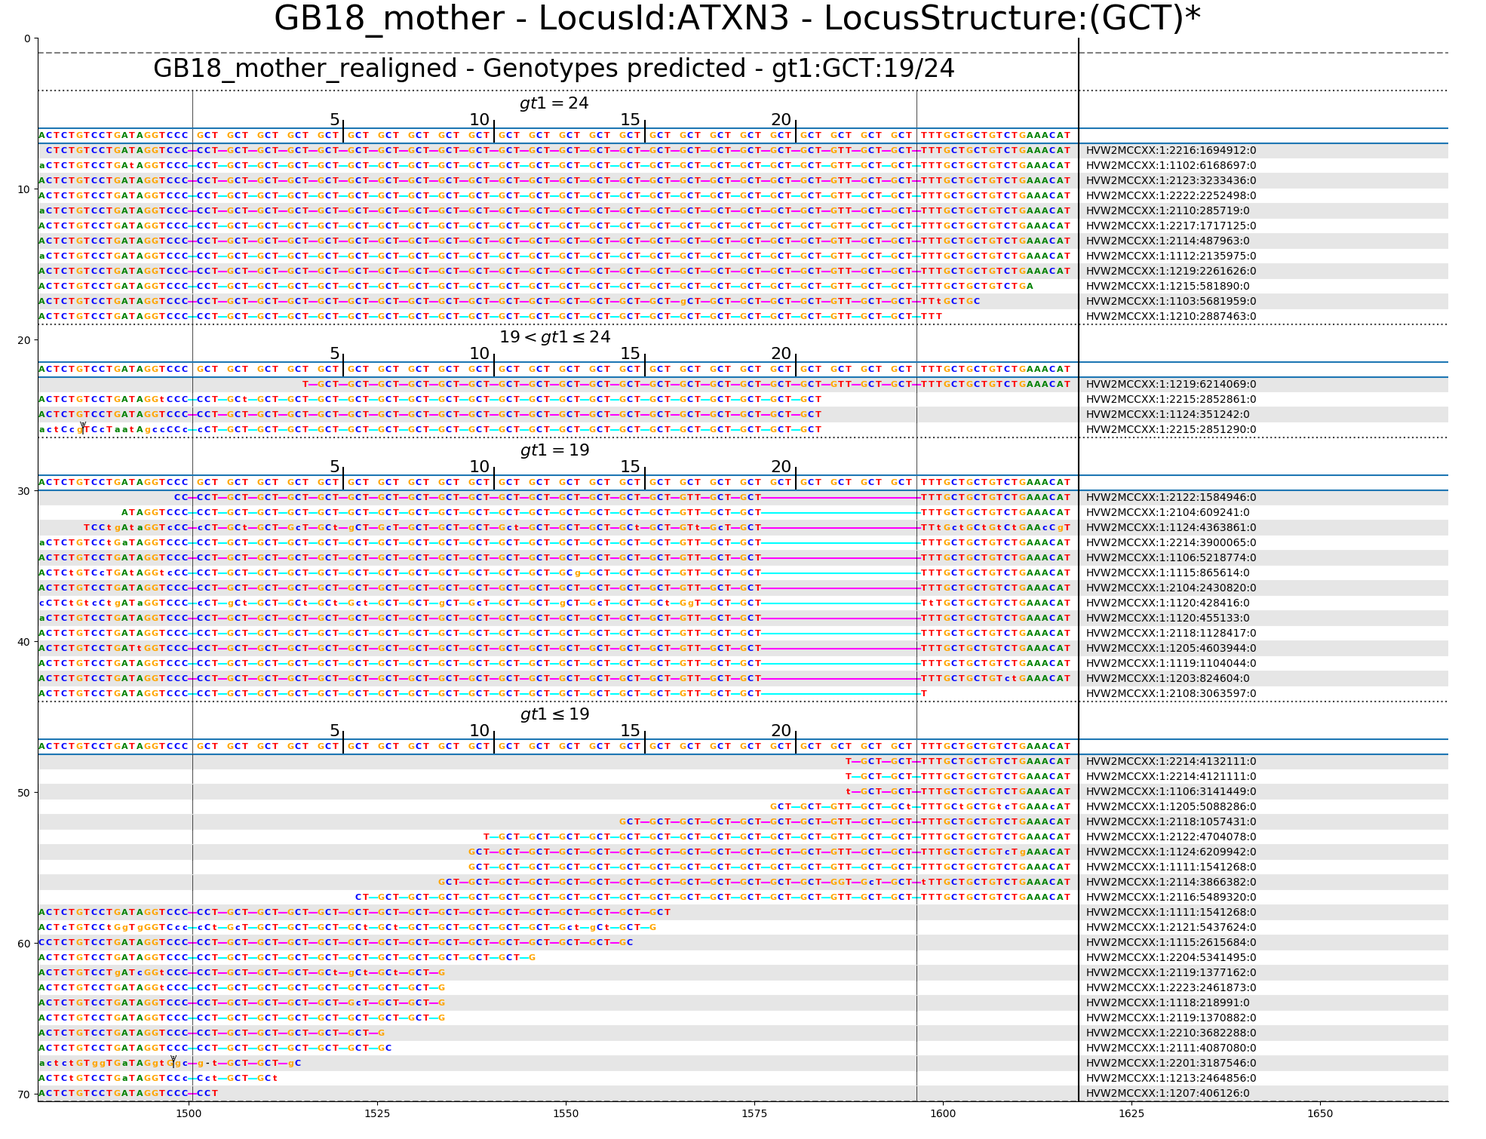
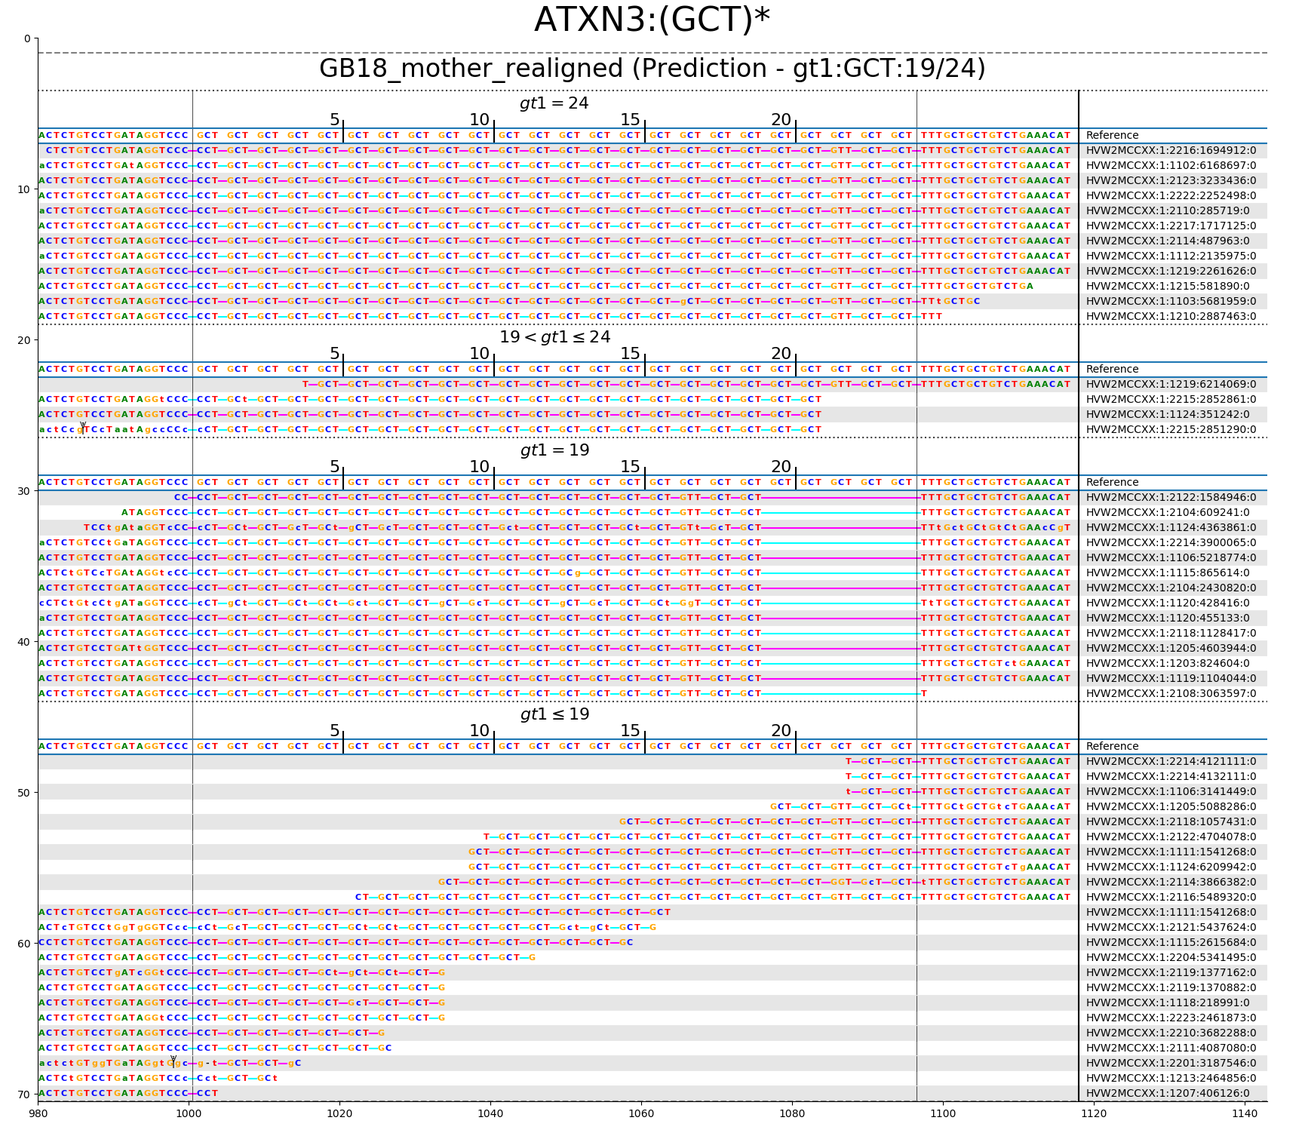
Update output file names and bugfix in reading genotype, graphics update

diff --git a/GraphAlignmentViewer.py b/GraphAlignmentViewer.py
@@ -381,7 +381,7 @@ def get_pileup_list(all_sample_read_aligns, sample_names, reference_graph, node_
     return pileup_list
 
 
-def plot_pileup(repeat_id, pileup_list, genotypes, reference_graph, greyscale=False, output_prefix='', title_suffix='', show_read_names=False, show_insertions=False, flank_clip_size=-1, dpi=100, pdf=False):
+def plot_pileup(repeat_id, pileup_list, genotypes, reference_graph, greyscale=False, output_name='', title_prefix='', show_read_names=False, show_insertions=False, flank_clip_size=-1, dpi=100, pdf=False):
     """Plot read pileups for all samples for give repeat_id
     Args:
         repeat_id: Repeat ID for which to plot pileup
@@ -390,7 +390,7 @@ def plot_pileup(repeat_id, pileup_list, genotypes, reference_graph, greyscale=Fa
         reference_graph: ReferenceGraph for locus
         greyscale: (optional): Set True for greyscale scheme. Default: color(IGV scheme).
         output_prefix: (optional) Default ''
-        title_suffix: String to be added as a suffix to the title
+        title_prefix: String to be added as a prefix to the title
         show_read_names: Show names of reads alongside the read
         show_insertions: Boolean to show full sequence of insertions
     Outputs:
@@ -409,7 +409,8 @@ def plot_pileup(repeat_id, pileup_list, genotypes, reference_graph, greyscale=Fa
         xoffset = repeat_path.get_alignment_coordinates('N', reference_graph, '%s[1M]' % reference_graph[0].node_id, offset=len(reference_graph[0].seq) - flank_clip_size, show_insertions=show_insertions)[0][0]
         xmax = repeat_path.get_alignment_coordinates('N', reference_graph, '%s[1M]' % reference_graph[-1].node_id, offset=flank_clip_size, show_insertions=show_insertions)[0][0]
     if show_read_names:
-        xlen = xmax + 50 - xoffset
+        read_name_max = max([len(alignment_pileup[0].query_name) for site_pileup in pileup_list for alignment_pileup in site_pileup[2]] + [len("Reference")])
+        xlen = xmax + read_name_max - xoffset
     else:
         xlen = xmax - xoffset
     ylen = 0 
@@ -423,7 +424,10 @@ def plot_pileup(repeat_id, pileup_list, genotypes, reference_graph, greyscale=Fa
     margin = 0.5
     fig = plt.figure(figsize=(xlen * xscale + 2 *
                                 margin,  ylen * yscale + 2 * margin))
-    fig.suptitle("%s - LocusId:%s - LocusStructure:%s %s" % (os.path.basename(output_prefix), repeat_id, reference_graph.locus_structure, title_suffix), fontsize=4 * fontsize, y=1 - margin / (ylen * yscale + 2 * margin), va='bottom')
+    if title_prefix == "":
+        fig.suptitle("%s:%s" % (repeat_id, reference_graph.locus_structure), fontsize=4 * fontsize, y=1 - margin / (ylen * yscale + 2 * margin), va='bottom')
+    else:
+        fig.suptitle("%s %s:%s" % (title_prefix, repeat_id, reference_graph.locus_structure), fontsize=4 * fontsize, y=1 - margin / (ylen * yscale + 2 * margin), va='bottom')
     ax = fig.add_axes([margin / (xlen * xscale + 1), margin / (ylen * yscale + 1),
                        xlen * xscale / (xlen * xscale + 2 * margin), ylen * yscale / (ylen * yscale + 2 * margin)])
     ax.set_xlim(xoffset, xoffset + xlen)
@@ -453,10 +457,11 @@ def plot_pileup(repeat_id, pileup_list, genotypes, reference_graph, greyscale=Fa
         if gtnone:
             sample_str = site_pileup[0]
         else:
-            sample_str = site_pileup[0] + ' - Genotypes predicted - ' + '; '.join(gt_list)
-        ax.text((xoffset + xmax) / 2, ypos + 3, sample_str, ha='center',
+            sample_str = site_pileup[0] + ' (Prediction - ' + '; '.join(gt_list) + ')'
+        ax.text((xoffset + xoffset + xlen) / 2, ypos + 3, sample_str, ha='center',
                 va='bottom', fontsize=3 * fontsize)
         ypos += 3
+        sample_start = ypos
         previous_genotype = None
         for alignment_pileup in site_pileup[2]:
             if alignment_pileup[2] != previous_genotype:
@@ -485,6 +490,8 @@ def plot_pileup(repeat_id, pileup_list, genotypes, reference_graph, greyscale=Fa
                         c = basepair_color[position[1].upper()]
                         ax.text(position[0]+ 0.5, ypos + 1, position[1], ha='center',
                                 va='center', fontsize=fontsize, weight='bold', color=c)
+                if show_read_names:
+                    ax.text(xmax + 2, ypos + 1, "Reference", color='k', ha='left', va='center')
                 previous_genotype = alignment_pileup[2]
                 
                 
@@ -542,12 +549,13 @@ def plot_pileup(repeat_id, pileup_list, genotypes, reference_graph, greyscale=Fa
             read_parity = 1 - read_parity
             ypos += 1
         ax.axhline(ypos + 0.5, linestyle='--', c='0.5')
-    if show_read_names:
-        ax.axvline(xmax + 1, color='k')
+        if show_read_names:
+            ax.plot((xmax + 1, xmax + 1), (sample_start + 0.5, ypos + 0.5), color='k')
+            # ax.axvline(xmax + 1, color='k')
     if pdf: 
-        fig.savefig(output_prefix + '.pdf')
+        fig.savefig(output_name + '.pdf')
     else:
-        fig.savefig(output_prefix + '.png', dpi=dpi)
+        fig.savefig(output_name + '.png', dpi=dpi)
     plt.close(fig)
 
 
@@ -572,13 +580,15 @@ def get_args():
     parser.add_argument("--locus_id", dest='locus_id',
                         type=str, help="Comma-separated locus IDs for which to plot pileup. Default: All repeats", default="")
     parser.add_argument("--output_prefix", dest='output_prefix',
-                        type=str, help="Prefix of output file (default: <FILENAME>_<LOCUS_ID> where FILENAME is base filename of READ_ALIGN_FILE/READ_ALIGN_FILE_LIST)", default="")
-    parser.add_argument("--title_suffix", dest='title_suffix',
-                        type=str, help="Suffix text to be appended to title of the plot (default:\"\")", default="")
+                        type=str, help="Prefix of output file. Output filename(s) \"<OUTPUT_PREFIX>_<CHROM>-<START>-<REPEATUNIT>.alignment.png\"(\".pdf\") corresponding to the position of the first repeat unit in the node grouping. If node grouping is \"NONE\" or \"ALL\", then position corresponds to the first repeat unit in the locus. (default: No prefix. Output filename(s) \"<CHROM>-<START>-<REPEATUNIT>.alignment.png\"(\".pdf\"))", default="")
+    parser.add_argument("--output_dir", dest='output_dir',
+                        type=str, help="Output directory (default=Current working directory)", default="")
+    parser.add_argument("--title_prefix", dest='title_prefix',
+                        type=str, help="Prefix text to be appended to title of the plot (default:\"\")", default="")
     parser.add_argument("--reference_fasta", dest='reference_fasta',
                         type=str, help="Fasta file with .fai index for reference sequence. If not provided, flanks are set to 'N'. Default: None", default=None)
     parser.add_argument("--node_grouping", dest='node_grouping',
-                        type=str, help="Comma-separated list of node indices (left flank=0) to group and sort reads by genotype. \"NONE\": sort reads only by position, \"ALL\": group by all repeat nodes from left to right. (default: \"1\" group by leftmost repeat node)", default="1")
+                        type=str, help="Comma-separated list of node indices (left flank=0) to group and sort reads by genotype. \"NONE\": sort reads only by position, \"ALL\": group by all repeat nodes from left to right. (default: create a separate image for each repeat unit)", default="")
     parser.add_argument("--show_read_names", action="store_true",
                         help="Show names of reads")
     parser.add_argument("--show_insertions", action="store_true",
@@ -613,7 +623,7 @@ def get_sample_filepaths(args):
             sample_list = [(sample_name, args.read_align_file, args.gt_file)]
         else:
             sample_list = [(sample_name, args.read_align_file, None)]
-        output_prefix = sample_name
+        # output_prefix = sample_name
     else:
         in_root = os.path.dirname(args.read_align_file_list)
         for l in open(args.read_align_file_list):
@@ -626,14 +636,14 @@ def get_sample_filepaths(args):
             else:
                 sample_list.append((ll[0], os.path.join(
                     in_root, ll[1]), None))
-        output_prefix = os.path.splitext(
-            os.path.basename(args.read_align_file_list))[0]
-    if args.output_prefix != "":
-        output_prefix = args.output_prefix
-        prefix_flag = True
-    else:
-        prefix_flag = False
-    return (sample_list, output_prefix, prefix_flag)
+        # output_prefix = os.path.splitext(
+        #     os.path.basename(args.read_align_file_list))[0]
+    # if args.output_prefix != "":
+    #     output_prefix = args.output_prefix
+    #     prefix_flag = True
+    # else
+    #     prefix_flag = False
+    return (sample_list)#, output_prefix , prefix_flag)
 
 
 def populate_repeat_graphs(specs_path=None, specs_format='v3', reference_fasta=None, flank_size=1000, sample_list=None):
@@ -741,7 +751,11 @@ def get_EH_genotypes(sample_list, file_format='vcf'):
 
 def main():
     args = get_args()
-    (sample_list, output_prefix, prefix_flag) = get_sample_filepaths(args)
+    sample_list = get_sample_filepaths(args)
+    if args.output_prefix == "":
+        output_prefix = ""
+    else:
+        output_prefix = args.output_prefix + '_'
     if args.reference_fasta is None:
         reference_fasta = None
     else:
@@ -764,20 +778,50 @@ def main():
             site_list.add(repeat_id)
 
     for repeat_id in site_list:
-        if args.node_grouping == 'NONE':
-            node_grouping_list = []
-        elif args.node_grouping == 'ALL':
-            node_grouping_list = None
+        if args.node_grouping != "":
+            if args.node_grouping == 'NONE':
+                node_grouping_list = []
+                output_name = ['%s%s-%s.alignment' % (output_prefix, n.reference_region.split('-')[0].replace(':', '-'), n.seq)
+                                 for n in repeat_graphs[repeat_id] if n.is_repeat][0]
+            elif args.node_grouping == 'ALL':
+                node_grouping_list = None
+                output_name = ['%s%s-%s.alignment' % (output_prefix, n.reference_region.split('-')[0].replace(':', '-'), n.seq)
+                                 for n in repeat_graphs[repeat_id] if n.is_repeat][0]
+            else:
+                node_grouping_list = [int(i) for i in args.node_grouping.split(',')]
+                for node_id in node_grouping_list:
+                    if not repeat_graphs[repeat_id][node_id].is_repeat:
+                        raise Exception("node id %s in --node_grouping is not a repeat unit" % node_id)
+                output_name = ['%s%s-%s.alignment' % (output_prefix, n.reference_region.split('-')[0].replace(':', '-'), n.seq)
+                                 for n in repeat_graphs[repeat_id] if n.node_id in node_grouping_list][0]
+            
+            if args.output_dir != "":
+                if not os.path.exists(args.output_dir):
+                    os.makedirs(args.output_dir)
+                output_name = os.path.join(args.output_dir, output_name)
+            pileup_list = get_pileup_list({s: all_sample_read_aligns[s][repeat_id] for s in all_sample_read_aligns},
+                                        [s[0] for s in sample_list], repeat_graphs[repeat_id],
+                                        node_grouping_list=node_grouping_list, show_insertions=args.show_insertions)
+            # if prefix_flag and len(site_list) == 1:
+            plot_pileup(repeat_id, pileup_list, genotypes, repeat_graphs[repeat_id], args.greyscale, output_name, args.title_prefix, args.show_read_names, show_insertions=args.show_insertions, flank_clip_size=args.flank_clip_size, dpi=args.dpi, pdf=args.pdf)
+            # else:
+            #     plot_pileup(repeat_id, pileup_list, genotypes, repeat_graphs[repeat_id],
+            #                 args.greyscale, output_prefix + "_" + repeat_id, args.title_prefix, args.show_read_names, show_insertions=args.show_insertions, flank_clip_size=args.flank_clip_size, dpi=args.dpi, pdf=args.pdf)
         else:
-            node_grouping_list = [int(i) for i in args.node_grouping.split(',')]
-        pileup_list = get_pileup_list({s: all_sample_read_aligns[s][repeat_id] for s in all_sample_read_aligns},
-                                      [s[0] for s in sample_list], repeat_graphs[repeat_id],
-                                      node_grouping_list=node_grouping_list, show_insertions=args.show_insertions)
-        if prefix_flag and len(site_list) == 1:
-            plot_pileup(repeat_id, pileup_list, genotypes, repeat_graphs[repeat_id], args.greyscale, output_prefix, args.title_suffix, args.show_read_names, show_insertions=args.show_insertions, flank_clip_size=args.flank_clip_size, dpi=args.dpi, pdf=args.pdf)
-        else:
-            plot_pileup(repeat_id, pileup_list, genotypes, repeat_graphs[repeat_id],
-                        args.greyscale, output_prefix + "_" + repeat_id, args.title_suffix, args.show_read_names, show_insertions=args.show_insertions, flank_clip_size=args.flank_clip_size, dpi=args.dpi, pdf=args.pdf)
+            for n in repeat_graphs[repeat_id]:
+                if not n.is_repeat:
+                    continue
+                node_grouping_list = [n.node_id]
+                output_name = '%s%s-%s.alignment' % (output_prefix, n.reference_region.split('-')[0].replace(':', '-'), n.seq)
+                if args.output_dir != "":
+                    if not os.path.exists(args.output_dir):
+                        os.makedirs(args.output_dir)
+                    output_name = os.path.join(args.output_dir, output_name)
+                pileup_list = get_pileup_list({s: all_sample_read_aligns[s][repeat_id] for s in all_sample_read_aligns},
+                                            [s[0] for s in sample_list], repeat_graphs[repeat_id],
+                                            node_grouping_list=node_grouping_list, show_insertions=args.show_insertions)
+                plot_pileup(repeat_id, pileup_list, genotypes, repeat_graphs[repeat_id], args.greyscale, output_name, args.title_prefix, args.show_read_names, show_insertions=args.show_insertions, flank_clip_size=args.flank_clip_size, dpi=args.dpi, pdf=args.pdf)
+                
 
 
 if __name__ == '__main__':

diff --git a/ReferenceGraph.py b/ReferenceGraph.py
@@ -22,18 +22,22 @@ class ReferenceGraph(list):
            flank_size: Size of flanking sequences to append to locus. 
         '''
         list.__init__(self)
+        position_list = []
         self.flank_size = flank_size
         if 'TargetRegion' in repeat_spec:
             self.target_region = repeat_spec["TargetRegion"]
         elif 'ReferenceRegion' in repeat_spec:
             if type(repeat_spec["ReferenceRegion"]) == str:
                 self.target_region = repeat_spec["ReferenceRegion"]
+                position_list = [repeat_spec["ReferenceRegion"]]
             else:
                 self.target_region = (repeat_spec["ReferenceRegion"][0].split('-')[0] 
                                       + '-' +repeat_spec["ReferenceRegion"][-1].split('-')[1])
+                position_list = repeat_spec["ReferenceRegion"]
         else:
             self.target_region = (repeat_spec["ReferenceLoci"][0].split('-')[0]
                 + '-' +repeat_spec["ReferenceLoci"][-1].split('-')[1])
+            position_list = repeat_spec["ReferenceLoci"]
         if 'RepeatUnit' in repeat_spec:
             self.repeat_unit = repeat_spec['RepeatUnit']
             self.locus_structure = repeat_spec['RepeatUnit']
@@ -58,7 +62,10 @@ class ReferenceGraph(list):
                 else:
                     node_names = [vid for vid in repeat_spec["VariantId"]]
             else:
-                node_names = [repeat_spec["LocusId"] + '_' + rr for rr in repeat_loci]
+                if len(repeat_loci) > 1:
+                    node_names = [repeat_spec["LocusId"] + '_' + rr for rr in repeat_loci]
+                else:
+                    node_names = [repeat_spec["LocusId"]]
         else:
             self.repeat_id = [s for s in repeat_spec['RepeatIds'] if 'ignore' not in s][0]
             node_names = [s for s in repeat_spec['RepeatIds']]
@@ -71,17 +78,18 @@ class ReferenceGraph(list):
         self.repeat_unit = self.repeat_unit
         self.repeat_id = self.repeat_id
         if reference_fasta is None:
-            self.append(ReferenceNode(node_id, 'N' * self.flank_size, False))
+            self.append(ReferenceNode(node_id, 'N' * self.flank_size, False, "%s:%s-%s" % (self.chrom, self.start - self.flank_size, self.start)))
         else:
-            self.append(ReferenceNode(node_id, reference_fasta.fetch(self.chrom, self.start - self.flank_size, self.start), False))
+            self.append(ReferenceNode(node_id, reference_fasta.fetch(self.chrom, self.start - self.flank_size, self.start), False, "%s:%s-%s" % (self.chrom, self.start - flank_size, self.start)))
         node_id += 1
         if '(' not in self.repeat_unit:
             # Then entire string is a single loop
-            self.append(ReferenceNode(1, self.repeat_unit, True, node_names[node_name_index]))
+            self.append(ReferenceNode(1, self.repeat_unit, True, node_names[node_name_index], "%s:%s-%s" % (self.chrom, self.start, self.end)))
             node_id += 1
             node_name_index += 1
         else:
             repeat_unit_index = 0
+            pos_i = 0
             while repeat_unit_index < len(self.repeat_unit):
                 index2 = repeat_unit_index + 1
                 while index2 < len(self.repeat_unit):
@@ -90,19 +98,24 @@ class ReferenceGraph(list):
                     index2 += 1
                 if self.repeat_unit[repeat_unit_index] == '(':
                     self.append(ReferenceNode(node_id, str(self.repeat_unit[repeat_unit_index + 1:index2]), True,
-                                              node_name=node_names[node_name_index]))
+                                              node_names[node_name_index], position_list[pos_i]))
                     node_name_index += 1
+                    pos_i += 1
                 else:
-                    self.append(ReferenceNode(node_id, str(self.repeat_unit[repeat_unit_index:index2]), False))
+                    start = self.start if (pos_i == 0) else position_list[pos_i - 1].split('-')[1]
+                    end = self.end if (pos_i == len(position_list)) else position_list[pos_i].split('-')[0].split(':')[1]
+                    self.append(ReferenceNode(node_id, str(self.repeat_unit[repeat_unit_index:index2]), False, "%s:%s-%s" % (self.chrom, start, end)))
                 node_id += 1
                 if index2 < len(self.repeat_unit) and self.repeat_unit[index2] == ')':
                     repeat_unit_index = index2 + 1
                 else:
                     repeat_unit_index = index2
         if reference_fasta is None:
-            self.append(ReferenceNode(node_id, 'N' * flank_size, False))
+            self.append(ReferenceNode(node_id, 'N' * flank_size, False, "%s:%s-%s" % (self.chrom, self.end, flank_size)))
         else:
-            self.append(ReferenceNode(node_id, reference_fasta.fetch(self.chrom, self.end, self.end + flank_size), False))
+            self.append(ReferenceNode(node_id, reference_fasta.fetch(self.chrom, self.end,
+                                                                     self.end + flank_size), False, "%s:%s-%s" % (self.chrom, self.end, flank_size)))
+        
 
 
     def get_graph_cigar_seq(self, graph_cigar, offset=0):

diff --git a/ReferenceNode.py b/ReferenceNode.py
@@ -16,7 +16,7 @@ class ReferenceNode(object):
     '''
 
 
-    def __init__(self, node_id, seq, is_repeat, node_name=''):
+    def __init__(self, node_id, seq, is_repeat, node_name='', reference_region=""):
         '''
         Initialize ReferenceNode
         Arguments:
@@ -28,6 +28,7 @@ class ReferenceNode(object):
         self.seq = seq
         self.is_repeat = is_repeat
         self.node_name = node_name
+        self.reference_region = reference_region
 
 
     def get_cigar_seq(self, cigar, offset=0):

diff --git a/README.md b/README.md
@@ -44,10 +44,11 @@ The pileups for the samples are shown in the order reported in the input file.
 |`--greyscale` | `-`      | Nucleotides colored in IGV color scheme | Show nucleotides in greyscale: high quality match - black, low quality match - grey, mismatch - red |
 |`--show_read_names` | `-` | Do not display read names | Display read names next to the read alignment |
 |`--show_insertions` | `-` | Do not display inserted sequences | Display full sequences of insertions |
-|`--output_prefix` | `OUTPUT_PREFIX` | `<FILENAME>_<LOCUS_ID>` where filename is basename of `READ_ALIGN_FILE` or `READ_ALIGN_FILE_LIST` | Prefix of output file |
-|`--title_suffix` | `TITLE_SUFFIX` | "" | Suffix text to be appended to title of the plot |
+|`--output_prefix` | `OUTPUT_PREFIX` | No prefix. Output filename(s): `<CHROM>-<START>-<REPEATUNIT>.alignment.png`(`.pdf`) | Prefix of output file. Output filename(s): `<OUTPUT_PREFIX>_<CHROM>-<START>-<REPEATUNIT>.alignment.png`(`.pdf`) corresponding to the position of the first repeat unit in the node grouping. If node grouping is `NONE` or `ALL`, then position corresponds to the first repeat unit in the locus. |
+|`--output_dir` | `OUTPUT_DIR` | `Current working directory` | Output directory |
+|`--title_suffix` | `TITLE_PREFIX` | "" | Prefix text to be appended to title of the plot |
 |`--reference_fasta` | `REFERENCE_FASTA` | Represent flanks with 'N's | Indexed FASTA file for reference sequence |
-|`--node_grouping` | `NODE_GROUPING` | `1` (group by leftmost repeat node) | Comma-separated list of node indices (left flank=`0`) to group and sort reads by genotype. `NONE`: sort reads only by position, `ALL`: group by all repeat nodes from left to right. |
+|`--node_grouping` | `NODE_GROUPING` | Create a separate image for each repeat unit | Comma-separated list of node indices (left flank=`0`) to group and sort reads by genotype. `NONE`: sort reads only by position, `ALL`: group by all repeat nodes from left to right. |
 |`--region_extension_length` | `REGION_EXTENSION_LENGTH` (`INT`) | `1000` | Size of nodes flanking the region structure used for generating the read alignments |
 |`--region_extension_clip_length` | `REGION_EXTENSION_CLIP_LENGTH` (`INT`) | `20` | Number of basepairs of flanking regions to display. `-1`: Infer from maximum span of reads overlapping the locus. |
 | `--dpi` | `DPI` (`INT`) | `100` | Resolution of output PNG image |
@@ -57,12 +58,6 @@ The pileups for the samples are shown in the order reported in the input file.
 
 
 ## Outputs:
-The script produces 1 file per locus: `<OUTPUT_PREFIX>_<LOCUS_ID>.png`. If the `--pdf` flag is set then it produces the file `<OUTPUT_PREFIX>_<LOCUS_ID>.pdf` instead.
+The script produces 1 file per repeat unit or `NODE_GROUPING`: `<OUTPUT_DIR>/<CHROM>-<START>-<REPEATUNIT>.alignment.png`. If the `--pdf` flag is set then it produces the file `<OUTPUT_DIR>/<CHROM>-<START>-<REPEATUNIT>.alignment.pdf` instead.
 
-The output files are created in the current working directory unless `--output_prefix` argument is provided. Specifically:
-* If `--output_prefix OUTPUT_PREFIX` is set
-  * If `OUTPUT_PREFIX` is provided using the `--output_prefix` option then the output file will be produced in the current working directory with file name `<OUTPUT_PREFIX>_C9ORF72.png` or `.pdf`. Here `OUTPUT_PREFIX` may contain an absolute or relative path or only basename of the ouput files.
-* Use case 1: Single sample
-  * If `READ_ALIGN_FILE` is `<PARENT_DIRECTORY>/sample.bam` and `LOCUS_ID` is `C9ORF72`, then the output files will be produced in the current working directory with file names `<CURRENT_WORKING_DIRECTORY>/sample_C9ORF72.pdf` and `<CURRENT_WORKING_DIRECTORY>/sample_C9ORF72.png`.
-* Use case 2: Comparison of genotypes from multiple samples
-  * If `READ_ALIGN_FILE_LIST` is `<PARENT_DIRECTORY>/sample.csv` and `LOCUS_ID` is `C9ORF72`, then the output file will be produced in the current working directory with file name `<CURRENT_WORKING_DIRECTORY>/samplelist_C9ORF72.png` or `.pdf`.
+If the flag `--output_prefix` is set then the output file name is `<OUTPUT_DIR>/<OUTPUT_PREFIX>_<CHROM>-<START>-<REPEATUNIT>.alignment.png` or `<OUTPUT_DIR>/<OUTPUT_PREFIX><CHROM>-<START>-<REPEATUNIT>.alignment.pdf` 
